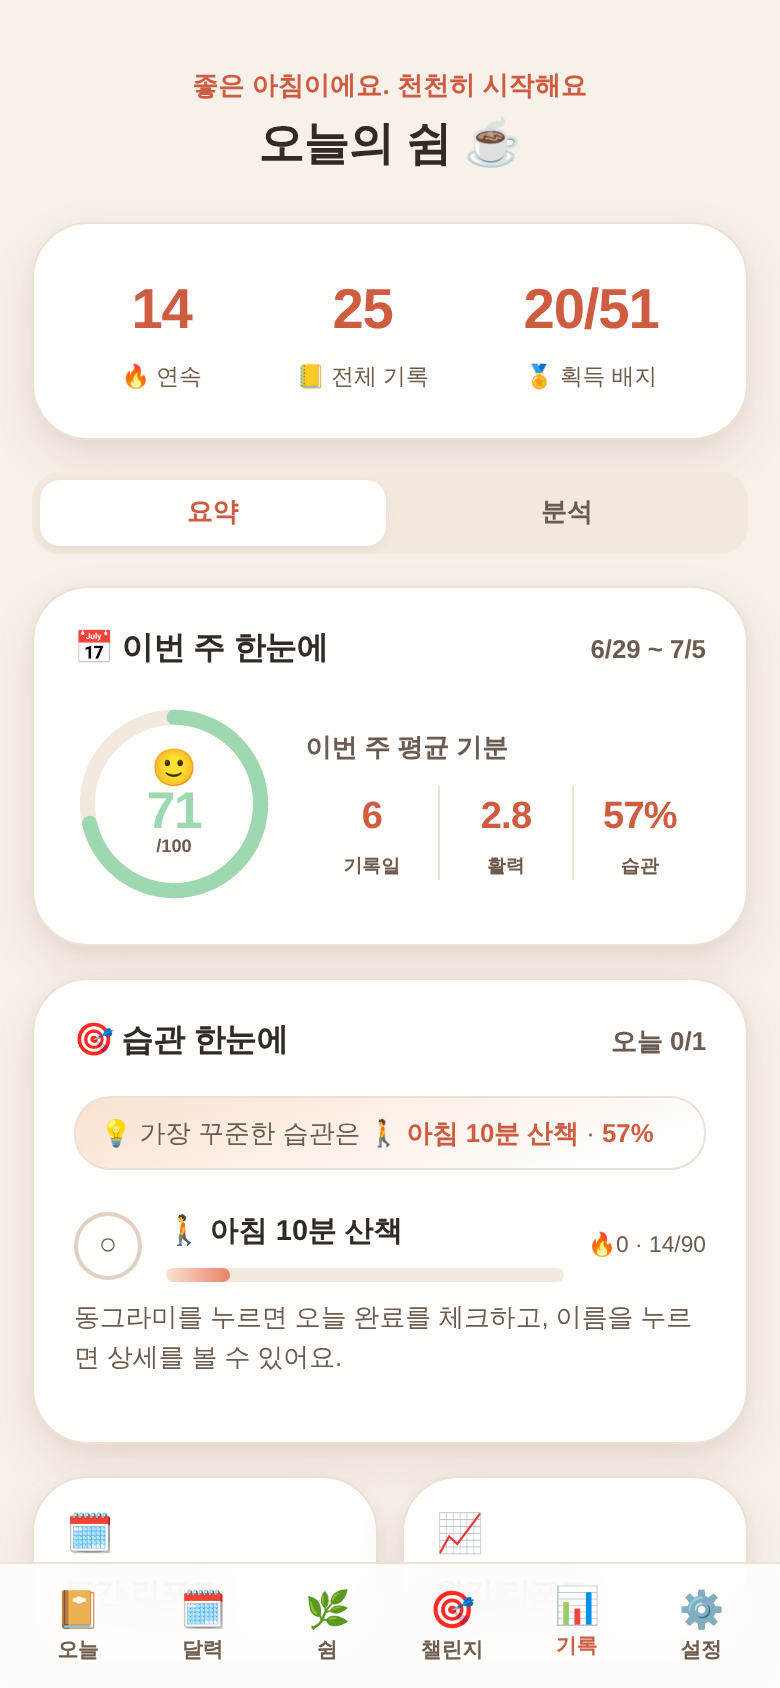
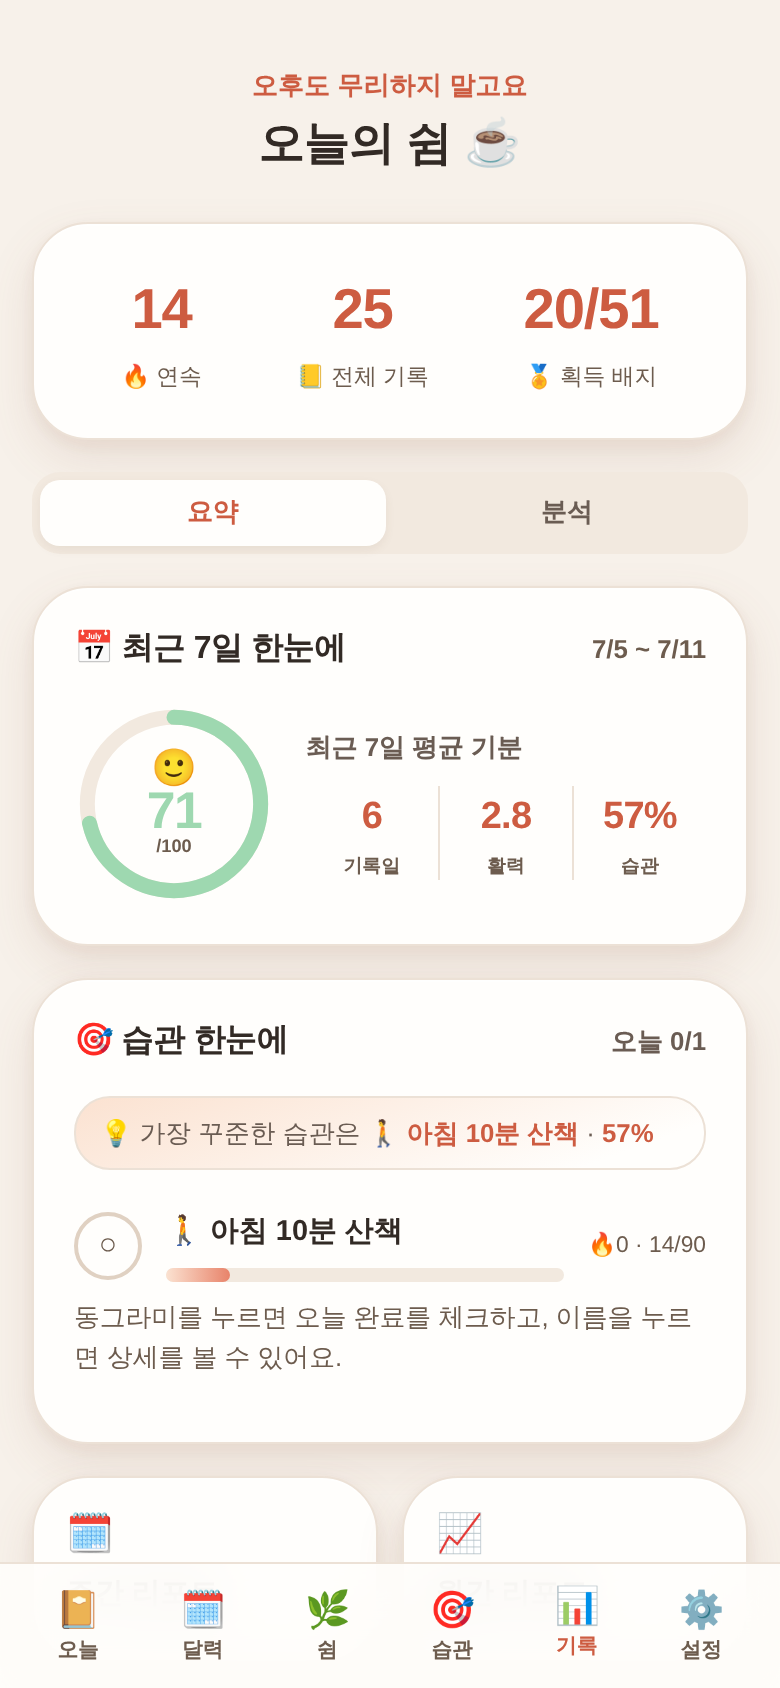
chore: 자율 업그레이드 사이클E — 스토어 스크린샷 최신 UI로 재생성
- docs/store/ 3종을 v137 UI(습관 탭 라벨·KPI 단위·새 명상 컨트롤 등)로
  재캡처 — 설치 UI/스토어 자산과 실제 화면 불일치 제거
- 명상 볼륨 슬라이더 accent가 전역 규칙에 밀려 테마 토큰 미적용 → 특이도 수정

Claude-Session: https://claude.ai/code/session_01BKSXzvx7JnDsncL3siULuh

diff --git a/style.css b/style.css
@@ -328,7 +328,7 @@ textarea:focus, .text-input:focus, input[type=time]:focus { outline: none; borde
 .med-sound { display: flex; align-items: center; gap: var(--s3); width: min(280px, 80%); opacity: 0.85; }
 .med-snd-btn { width: 44px; height: 44px; flex-shrink: 0; border-radius: 50%; border: 1px solid var(--med-track); background: transparent; color: var(--med-text); font-size: 1.1rem; cursor: pointer; display: flex; align-items: center; justify-content: center; transition: transform 0.1s; }
 .med-snd-btn:active { transform: scale(0.9); }
-.med-vol { flex: 1; accent-color: var(--med-on-bg); height: 4px; }
+.med-overlay .med-vol { flex: 1; accent-color: var(--med-on-bg); height: 4px; } /* 전역 range accent보다 우선 */
 .med-guide { list-style: none; padding: 0; margin: var(--s2) 0 0; counter-reset: med; }
 .med-guide li { counter-increment: med; position: relative; padding: var(--s3) var(--s3) var(--s3) 46px; margin-bottom: var(--s2); background: var(--bg-sunken); border-radius: var(--r-md); opacity: 0; transform: translateY(10px); animation: medIn 0.5s var(--ease-soft) forwards; }
 .med-guide li::before { content: counter(med); position: absolute; left: 12px; top: 50%; transform: translateY(-50%); width: 24px; height: 24px; border-radius: 50%; background: var(--accent); color: #fff; display: flex; align-items: center; justify-content: center; font-size: var(--t-xs); font-weight: var(--w-bold); }
